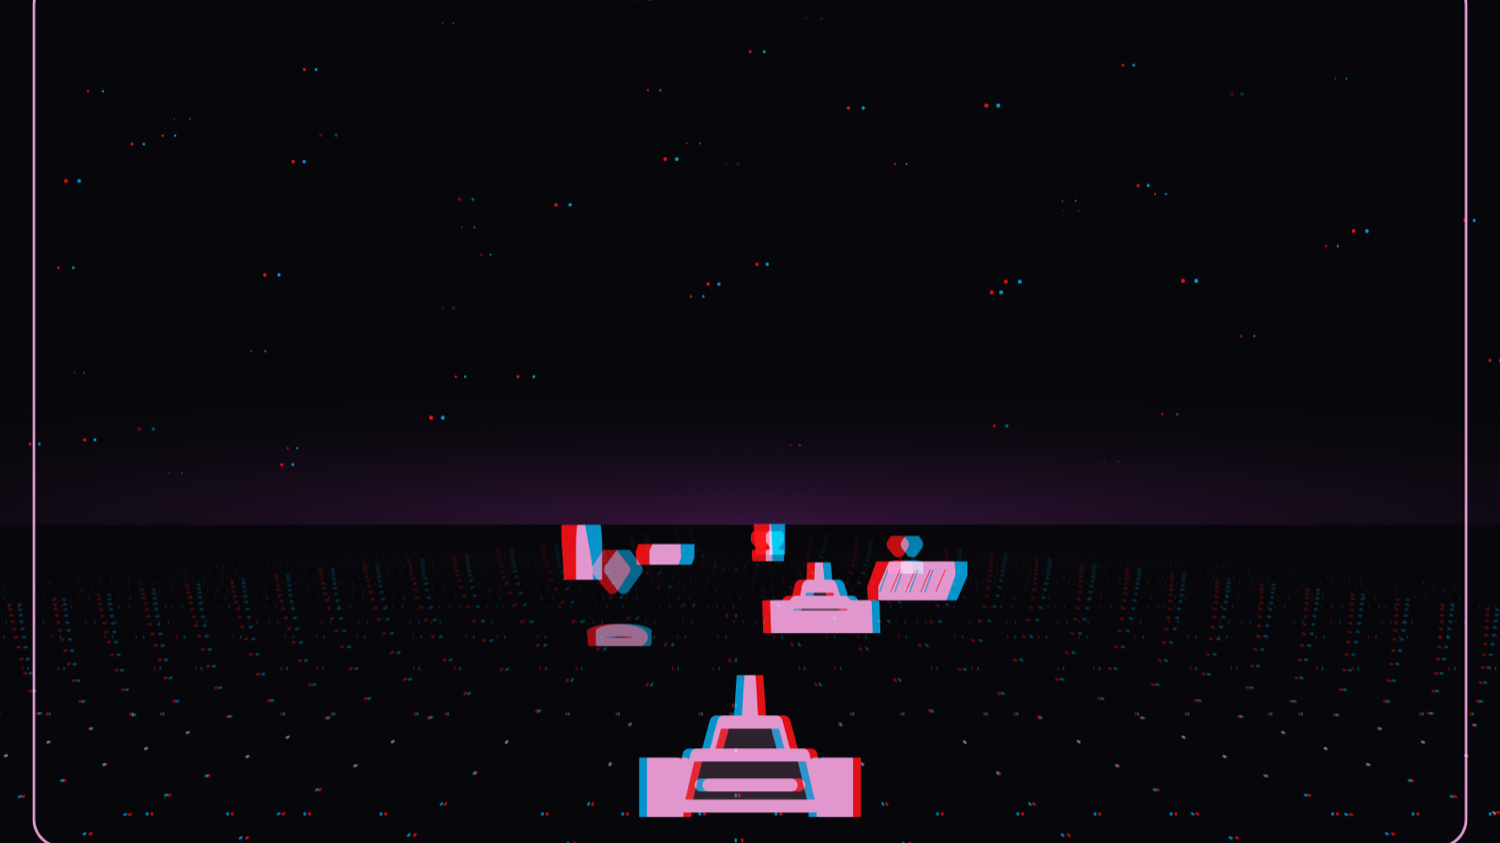
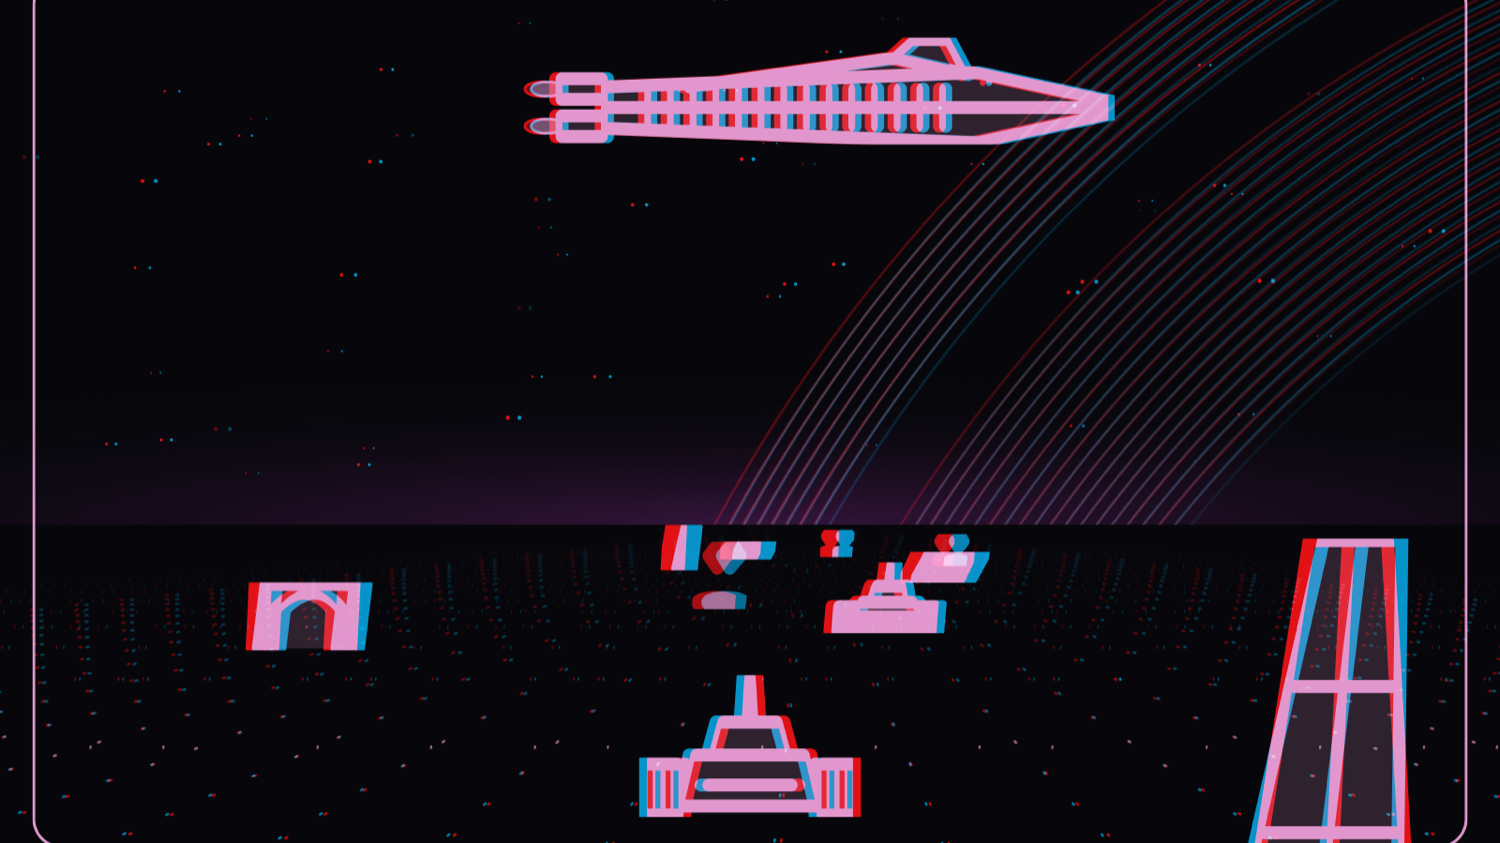
feat(anaglyph-look): a planet's ring and a cruising carrier in the arena sky

diff --git a/plugins/anaglyph-look/hooks/arena.ts b/plugins/anaglyph-look/hooks/arena.ts
@@ -31,6 +31,27 @@ const TANK_REAR =
   'M-26 -40L26 -40L20 -62L-20 -62Z M-4 -62L-2 -92L2 -92L4 -62' +
   'M-30 -20L30 -20'
 
+// A planet's ring arcing up from the horizon: thin bands of different brightness, with a gap.
+// Each band is [radius, stroke width, opacity].
+const RING_BANDS: ReadonlyArray<readonly [number, number, number]> = Array.from({ length: 32 }, (_, i) => {
+  const r = 1300 + i * 13
+  const isGap = r > 1545 && r < 1600
+  const glow = 0.12 + 0.2 * Math.abs(Math.sin(i * 1.7)) + (i > 20 ? 0.08 : 0)
+  return [r, 4 + (i % 3) * 3, isGap ? 0 : glow] as const
+}).filter(([, , o]) => o > 0)
+
+// A long carrier: a wedge hull, a raised deck and bridge, twin engines, hatched panels,
+// running lights and thrusters. It flies to the right.
+const SHIP =
+  'M-240 -20L120 -34L250 -6L250 6L120 34L-240 20Z' +
+  'M-160 -20L40 -48L110 -32M40 -48L60 -66L92 -66L110 -32' +
+  'M-284 -28h44v20h-44ZM-284 8h44v20h-44Z' +
+  'M-240 0L250 0' +
+  hatch(-220, 110, -18, 18, 22)
+const SHIP_LIGHTS = [-200, -90, 20, 130].map(x => `<circle class="blink" cx="${x}" cy="-24" r="3" stroke="none"/>`).join('')
+const SHIP_THRUST = '<ellipse class="thrust" cx="-298" cy="-18" rx="16" ry="7" fill-opacity=".5"/><ellipse class="thrust" cx="-298" cy="18" rx="16" ry="7" fill-opacity=".5"/>'
+const CRUISE = 80 // seconds for the carrier to cross the sky
+
 type Prop = { path: string; groundX: number; size: number; offset: number; beacon?: boolean }
 
 // What streams toward you, each in its own lane, spread through the lap by `offset`.
@@ -132,8 +153,20 @@ export function arenaScene({ inks, strength, mode, phase, respawn }: ArenaArgs):
 
   // Turning: the sky pans, and the ground pans and leans with it, near parts sweeping faster
   // than far ones. Your own tank stays put in front of you.
+  const ring = s.eyes(
+    `<g clip-path="url(#sky)"><g transform="translate(2200 1500) rotate(-8)">` +
+      RING_BANDS.map(([r, w, o]) => `<ellipse rx="${r}" ry="${f(r * 1.04)}" fill="none" stroke-width="${w}" stroke-opacity="${f(o)}"/>`).join('') +
+      '</g></g>',
+    DEPTH.far,
+  )
+  const ship =
+    `<g transform="translate(0 175)"><g class="ship" style="animation-delay:-${f(phase % CRUISE)}s">` +
+    s.eyes(`<g transform="scale(1.1)"><path d="${SHIP}" fill-opacity=".18" vector-effect="non-scaling-stroke"/>${SHIP_LIGHTS}${SHIP_THRUST}</g>`, -4) +
+    '</g></g>'
+
   const body =
-    `<g class="pan" style="${turning}">${stars(s.eyes, 110, 11)}</g>` +
+    `<clipPath id="sky"><rect x="-2600" y="-400" width="${1600 + 5200}" height="${HORIZON + 400}"/></clipPath>` +
+    `<g class="pan" style="${turning}">${stars(s.eyes, 110, 11)}${ring}${ship}</g>` +
     `<g class="yaw" style="${turning}">` +
     `<g mask="url(#floor)">${flow.svg}${s.floor('2 46')}</g>` +
     props +
@@ -149,6 +182,9 @@ export function arenaScene({ inks, strength, mode, phase, respawn }: ArenaArgs):
   const style =
     BASE_CSS +
     flow.css +
+    `.ship{animation:cruise ${CRUISE}s linear infinite}@keyframes cruise{from{transform:translateX(-900px)}to{transform:translateX(2600px)}}` +
+    '.blink{animation:blink 1.6s steps(2) infinite}@keyframes blink{50%{opacity:.15}}' +
+    '.thrust{transform-box:fill-box;transform-origin:100% 50%;animation:thrust .5s ease-in-out infinite alternate}@keyframes thrust{to{transform:scaleX(1.5);opacity:.6}}' +
     `.pan{animation:pan ${YAW}s ease-in-out infinite alternate}@keyframes pan{from{transform:translateX(-60px)}to{transform:translateX(60px)}}` +
     `.yaw{transform-origin:${VX}px ${HORIZON}px;animation:yaw ${YAW}s ease-in-out infinite alternate}@keyframes yaw{from{transform:translateX(-60px) skewX(5deg)}to{transform:translateX(60px) skewX(-5deg)}}` +
     PROPS.map(approach).join('') +

diff --git a/plugins/anaglyph-look/hooks/scene.test.ts b/plugins/anaglyph-look/hooks/scene.test.ts
@@ -50,6 +50,8 @@ test('the arena parks when idle or waiting, shoots only when firing, and picks u
   expect(at('firing')).toContain('class="working"')
   expect(at('idle')).toContain('.idle .come')
   expect(at('firing')).toContain('class="bolt"')
+  expect(at('idle')).toContain('class="ship"')
+  expect(at('idle')).toContain('clip-path="url(#sky)"')
   expect(at('working')).not.toContain('class="bolt"')
   expect(at('working', 0)).not.toBe(at('working', 7))
 })

diff --git a/plugins/anaglyph-look/README.fr.md b/plugins/anaglyph-look/README.fr.md
@@ -23,6 +23,7 @@ Mettez des lunettes rouge et cyan, verre rouge sur l'œil gauche, et tapez d'abo
 
 - **`/anaglyph-calibrate`** ouvre une mire : les mots LEFT et RIGHT imprimés l'un sur l'autre. Fermez un œil à la fois : chaque verre ne doit montrer que son propre mot. Assombrissez la couleur qui se voit encore à travers l'autre verre, gardez les deux à peu près aussi lumineuses, puis appuyez sur **Save**. La scène derrière la conversation change au fur et à mesure, et vos couleurs sont gardées pour toutes les sessions.
 - **L'arène** se trouve derrière la conversation, vue juste derrière votre char qui en suit un autre. Elle suit Claude : à l'arrêt quand il ne se passe rien, le sol pointillé défile vers vous et le monde tourne quand Claude travaille, des tirs partent vers le char devant vous quand un outil s'exécute, les balises s'allument quand Claude attend votre réponse, et le char devant explose quand Claude termine un travail qui a utilisé un outil.
+- **Le ciel** montre l'anneau d'une planète qui s'élève depuis l'horizon, loin derrière tout le reste, et un long vaisseau porteur qui passe devant.
 - **Le tableau de bord** au-dessus de la zone de saisie indique ce que fait votre char, le remplissage de la fenêtre de contexte de Claude, et les tirs et coups au but de la session.
 - **`/anaglyph-demo`** montre tous les états de l'arène en vingt-cinq secondes environ, avec la ligne d'état qui explique chacun.
 

diff --git a/plugins/anaglyph-look/README.es.md b/plugins/anaglyph-look/README.es.md
@@ -23,6 +23,7 @@ Ponte unos lentes rojo y cian, con el lente rojo en el ojo izquierdo, y escribe 
 
 - **`/anaglyph-calibrate`** abre una carta de prueba: las palabras LEFT y RIGHT impresas una sobre otra. Cierra un ojo a la vez: cada lente debe mostrar solo su propia palabra. Oscurece el color que todavía se ve a través del otro lente, mantén los dos con un brillo parecido y pulsa **Save**. La escena detrás de la conversación cambia mientras ajustas, y tus colores se guardan para todas las sesiones.
 - **La arena** está detrás de la conversación, vista justo detrás de tu tanque mientras sigue a otro. Sigue a Claude: quieta cuando no pasa nada, el piso de puntos avanza hacia ti y el mundo gira cuando Claude trabaja, salen disparos hacia el tanque de enfrente cuando se ejecuta una herramienta, las balizas se encienden cuando Claude espera tu respuesta, y el tanque de enfrente explota cuando Claude termina un trabajo que usó una herramienta.
+- **El cielo** muestra el anillo de un planeta que sube desde el horizonte, muy por detrás de todo, y una larga nave nodriza que cruza por delante.
 - **El tablero** sobre el cuadro de texto indica qué hace tu tanque, qué tan llena está la ventana de contexto de Claude, y los disparos y aciertos de la sesión.
 - **`/anaglyph-demo`** muestra todos los estados de la arena en unos 25 segundos, y la línea de estado explica cada uno.
 

diff --git a/plugins/anaglyph-look/README.md b/plugins/anaglyph-look/README.md
@@ -23,6 +23,7 @@ Put on red-cyan glasses, red lens on the left eye, and type `/anaglyph-calibrate
 
 - **`/anaglyph-calibrate`** opens a test card: the words LEFT and RIGHT printed over each other. Close one eye at a time: each lens should show only its own word. Dim whichever color still shows through the other lens, keep the two about as bright as each other, and press **Save**. The scene behind the chat changes as you go, and your colors are kept for every session.
 - **The arena** sits behind the chat, seen from just behind your own tank as you follow another. It follows Claude: parked while nothing happens, the dotted ground streaming toward you and the world turning while Claude works, bolts flying at the tank ahead when a tool runs, beacons lighting up when Claude is waiting for you, and the tank ahead blowing up when Claude finishes work that used a tool.
+- **The sky** has a planet's ring arcing up from the horizon, far behind everything, and a long carrier cruising across in front of it.
 - **The readout** above the prompt says what your tank is doing, how full Claude's context window is, and the shots and hits this session.
 - **`/anaglyph-demo`** plays every arena state in about 25 seconds, with the status line saying what each one means.
 
